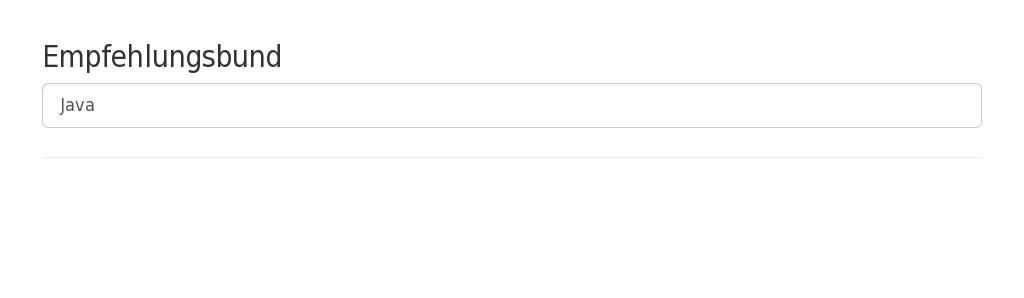
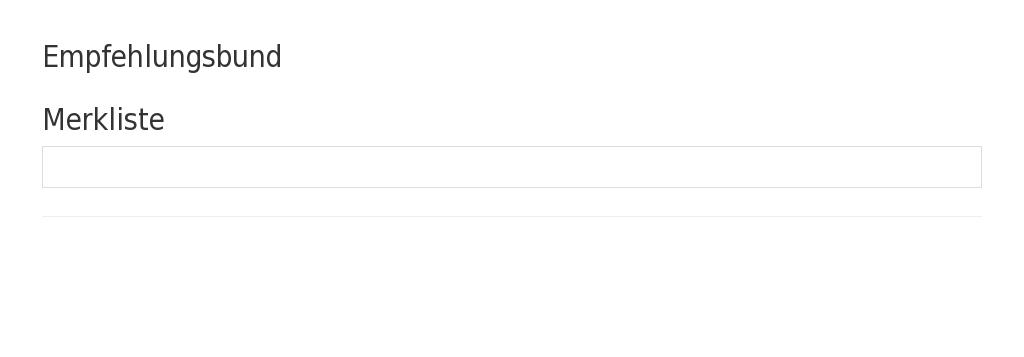
Merklisten Bug nachgebildet

Changed region(s): [[0.0312, 0.2718, 0.9688, 0.3926], [0.0312, 0.1208, 0.2812, 0.2416], [0.0312, 0.4228, 0.9688, 0.453]]

diff --git a/ebapp/spec/first_spec.rb b/ebapp/spec/first_spec.rb
@@ -2,8 +2,31 @@ require "spec_helper"
 describe 'First', :type => :feature do
   specify do
     visit '/'
-    fill_in 'search', with: "Java\n"
     page.should have_content 'Empfehlungsbund'
+    fill_in 'search', with: "Java"
+    click_on 'Suchen'
+
+    sleep 2
+    all('h3').count.should be > 5
+
+    # click on first
+    all('.list-group-item img').first.click
+
+    click_on 'Auf die Merkliste'
+    title =  find('h1').text
+
+    click_on 'Merkliste'
+    page.has_selector?('h2', text: 'Merkliste')
+    page.should have_content title
+
+    # 2.Suche
+    visit '/'
+    fill_in 'search', with: "Java"
+    click_on 'Suchen'
+    sleep 2
+    click_on 'Merkliste'
+    page.has_selector?('h2', text: 'Merkliste')
+    page.should have_content title
   end
 
 end
